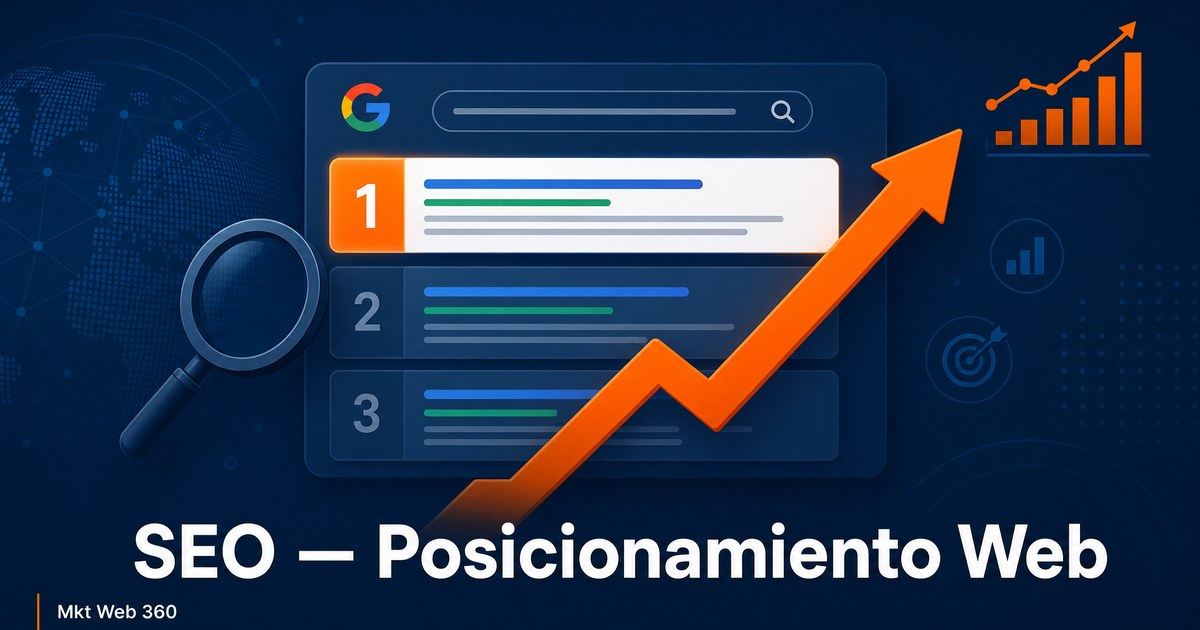
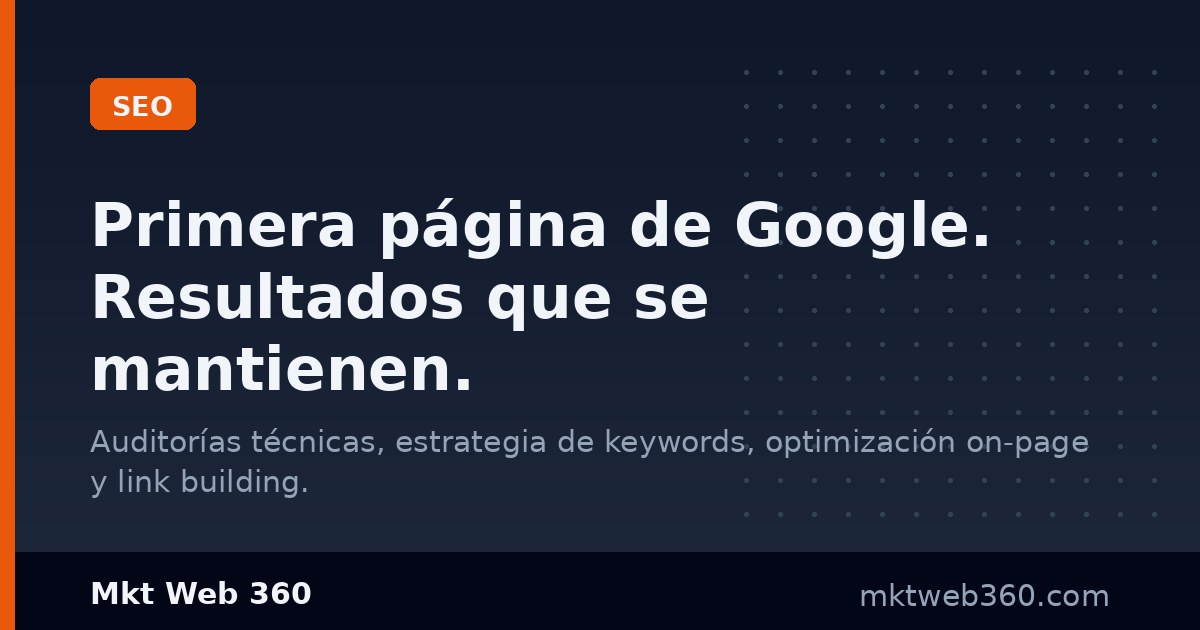
feat: add custom OG images to 6 service pages + gen script

diff --git a/app/(site)/diseno-de-paginas-web/paginas-corporativas/page.tsx b/app/(site)/diseno-de-paginas-web/paginas-corporativas/page.tsx
@@ -13,7 +13,7 @@ export const metadata: Metadata = {
     description:
       "Diseño de páginas web corporativas para empresas. Web profesional que genera confianza, capta leads y posiciona en Google. SEO técnico incluido desde el primer día.",
     url: "https://www.mktweb360.com/diseno-de-paginas-web/paginas-corporativas/",
-    images: [{ url: "/imagen-diseno-web.jpg", width: 1200, height: 900 }],
+    images: [{ url: "https://www.mktweb360.com/og-paginas-corporativas.jpg", width: 1200, height: 630 }],
   },
 };
 

diff --git a/app/(site)/geo-posicionamiento-ia/page.tsx b/app/(site)/geo-posicionamiento-ia/page.tsx
@@ -11,7 +11,7 @@ export const metadata: Metadata = {
     title: "GEO — Posicionamiento en IA | Mkt Web 360",
     description: "Optimiza tu presencia para que los motores de IA te recomienden cuando tus clientes preguntan. ChatGPT, Perplexity, Gemini, Claude.",
     url: "https://www.mktweb360.com/geo-posicionamiento-ia/",
-    images: [{ url: "/og-geo-posicionamiento-ia.jpg", width: 1200, height: 630 }],
+    images: [{ url: "https://www.mktweb360.com/og-geo.jpg", width: 1200, height: 630 }],
   },
 };
 

diff --git a/app/(site)/marketing-de-contenidos/page.tsx b/app/(site)/marketing-de-contenidos/page.tsx
@@ -12,7 +12,7 @@ export const metadata: Metadata = {
     title: "Marketing de Contenidos para Empresas | Mkt Web 360",
     description: "Estrategia y producción de contenidos digitales para captación orgánica, autoridad de marca y SEO.",
     url: "https://www.mktweb360.com/marketing-de-contenidos/",
-    images: [{ url: "/imagen-marketing-contenidos.jpg", width: 1200, height: 900, alt: "Marketing de contenidos Mkt Web 360" }],
+    images: [{ url: "https://www.mktweb360.com/og-marketing-contenidos.jpg", width: 1200, height: 630 }],
   },
 };
 

diff --git a/app/(site)/sem-publicidad-ppc/page.tsx b/app/(site)/sem-publicidad-ppc/page.tsx
@@ -12,7 +12,7 @@ export const metadata: Metadata = {
     title: "Google Ads y SEM — Gestión de Campañas PPC | Mkt Web 360",
     description: "Campañas de Google Ads que generan clientes desde el primer día. Servicio nacional.",
     url: "https://www.mktweb360.com/sem-publicidad-ppc/",
-    images: [{ url: "/imagen-sem.jpg", width: 1200, height: 900, alt: "Google Ads SEM Mkt Web 360" }],
+    images: [{ url: "https://www.mktweb360.com/og-sem.jpg", width: 1200, height: 630 }],
   },
 };
 

diff --git a/app/(site)/seo-posicionamiento-web-organico/page.tsx b/app/(site)/seo-posicionamiento-web-organico/page.tsx
@@ -15,7 +15,7 @@ export const metadata: Metadata = {
     title: "Posicionamiento Web SEO — Agencia SEO España | Mkt Web 360",
     description: "Posiciona tu web en Google con estrategias SEO probadas. Resultados duraderos. Servicio nacional.",
     url: "https://www.mktweb360.com/seo-posicionamiento-web-organico/",
-    images: [{ url: "/imagen-seo.jpg", width: 1200, height: 900, alt: "SEO posicionamiento web Mkt Web 360" }],
+    images: [{ url: "https://www.mktweb360.com/og-seo.jpg", width: 1200, height: 630 }],
   },
 };
 

diff --git a/app/(site)/smm-social-media-marketing/page.tsx b/app/(site)/smm-social-media-marketing/page.tsx
@@ -13,7 +13,7 @@ export const metadata: Metadata = {
     title: "Gestión Redes Sociales — Community Manager | Mkt Web 360",
     description: "Community management profesional para tu empresa. Instagram, Facebook, LinkedIn, TikTok.",
     url: "https://www.mktweb360.com/smm-social-media-marketing/",
-    images: [{ url: "/imagen-redes-sociales.jpg", width: 1200, height: 900, alt: "Gestión redes sociales Mkt Web 360" }],
+    images: [{ url: "https://www.mktweb360.com/og-smm.jpg", width: 1200, height: 630 }],
   },
 };
 

diff --git a/scripts/gen_og_images.py b/scripts/gen_og_images.py
@@ -1,0 +1,123 @@
+#!/usr/bin/env python3
+"""Generate 6 OpenGraph images (1200x630 JPEG) for mktweb360 service pages."""
+import os
+from PIL import Image, ImageDraw, ImageFont
+
+W, H = 1200, 630
+OUT_DIR = "/home/mktwe/mktweb360-web/public"
+FONT_REG = "/tmp/DejaVuSans.ttf"
+FONT_BOLD = "/tmp/DejaVuSans-Bold.ttf"
+
+BG_TOP = (15, 23, 42)      # slate-900
+BG_BOT = (30, 41, 59)      # slate-800
+ACCENT = (234, 88, 12)     # orange-600
+DOT = (51, 65, 85)         # slate-700
+WHITE = (241, 245, 249)    # slate-100
+MUTED = (148, 163, 184)    # slate-400
+BAR = (2, 6, 23)           # near-black bottom bar
+
+IMAGES = [
+    ("og-seo.jpg", "SEO",
+     "Primera página de Google. Resultados que se mantienen.",
+     "Auditorías técnicas, estrategia de keywords, optimización on-page y link building."),
+    ("og-paginas-corporativas.jpg", "Diseño Web Corporativo",
+     "Tu web como activo de negocio, no decoración.",
+     "Páginas web corporativas diseñadas para convertir visitas en clientes. WordPress, SEO incluido, desde 790€."),
+    ("og-sem.jpg", "Google Ads SEM",
+     "Primeros resultados desde el día uno.",
+     "Campañas de Google Ads optimizadas para tu sector. Solo pagas cuando alguien hace clic en tu anuncio."),
+    ("og-smm.jpg", "Redes Sociales",
+     "Comunidades reales, no seguidores vacíos.",
+     "Gestión profesional de Instagram, LinkedIn, Facebook y TikTok. Estrategia, contenido e informes mensuales."),
+    ("og-marketing-contenidos.jpg", "Marketing de Contenidos",
+     "Contenido que atrae, convence y convierte.",
+     "Artículos SEO, estrategia editorial y contenidos que posicionan tu marca como referencia en tu sector."),
+    ("og-geo.jpg", "GEO Posicionamiento IA",
+     "Aparece en ChatGPT, Perplexity y Gemini.",
+     "El SEO de la era de la inteligencia artificial. Optimización para LLMs y motores de respuesta generativa."),
+]
+
+
+def wrap(draw, text, font, max_w):
+    words, lines, cur = text.split(), [], ""
+    for w in words:
+        trial = (cur + " " + w).strip()
+        if draw.textlength(trial, font=font) <= max_w:
+            cur = trial
+        else:
+            if cur:
+                lines.append(cur)
+            cur = w
+    if cur:
+        lines.append(cur)
+    return lines
+
+
+def make(fname, badge, tagline, desc):
+    img = Image.new("RGB", (W, H), BG_TOP)
+    d = ImageDraw.Draw(img)
+
+    # vertical gradient background
+    for y in range(H):
+        t = y / (H - 1)
+        d.line(
+            [(0, y), (W, y)],
+            fill=(
+                int(BG_TOP[0] + (BG_BOT[0] - BG_TOP[0]) * t),
+                int(BG_TOP[1] + (BG_BOT[1] - BG_TOP[1]) * t),
+                int(BG_TOP[2] + (BG_BOT[2] - BG_TOP[2]) * t),
+            ),
+        )
+
+    # dot texture, right side
+    for gx in range(int(W * 0.62), W - 40, 34):
+        for gy in range(70, H - 110, 34):
+            d.ellipse([gx, gy, gx + 4, gy + 4], fill=DOT)
+
+    # left orange accent bar
+    d.rectangle([0, 0, 14, H], fill=ACCENT)
+
+    x = 90
+    f_badge = ImageFont.truetype(FONT_BOLD, 27)
+    f_tag = ImageFont.truetype(FONT_BOLD, 60)
+    f_desc = ImageFont.truetype(FONT_REG, 30)
+    f_brand = ImageFont.truetype(FONT_BOLD, 30)
+
+    # badge pill
+    bt = badge.upper()
+    bw = d.textlength(bt, font=f_badge)
+    pad_x, pad_y, by = 22, 12, 78
+    d.rounded_rectangle(
+        [x, by, x + bw + pad_x * 2, by + 27 + pad_y * 2], radius=10, fill=ACCENT
+    )
+    d.text((x + pad_x, by + pad_y), bt, font=f_badge, fill=WHITE)
+
+    # tagline
+    y = 190
+    for line in wrap(d, tagline, f_tag, 1010):
+        d.text((x, y), line, font=f_tag, fill=WHITE)
+        y += 72
+
+    # description
+    y += 18
+    for line in wrap(d, desc, f_desc, 1000):
+        d.text((x, y), line, font=f_desc, fill=MUTED)
+        y += 40
+
+    # bottom brand bar
+    d.rectangle([0, H - 78, W, H], fill=BAR)
+    d.rectangle([0, H - 78, 14, H], fill=ACCENT)
+    d.text((x, H - 78 + 24), "Mkt Web 360", font=f_brand, fill=WHITE)
+    url = "mktweb360.com"
+    uw = d.textlength(url, font=f_desc)
+    d.text((W - 90 - uw, H - 78 + 26), url, font=f_desc, fill=MUTED)
+
+    path = os.path.join(OUT_DIR, fname)
+    img.save(path, "JPEG", quality=88)
+    return path
+
+
+if __name__ == "__main__":
+    for fname, badge, tagline, desc in IMAGES:
+        p = make(fname, badge, tagline, desc)
+        print("wrote", p)